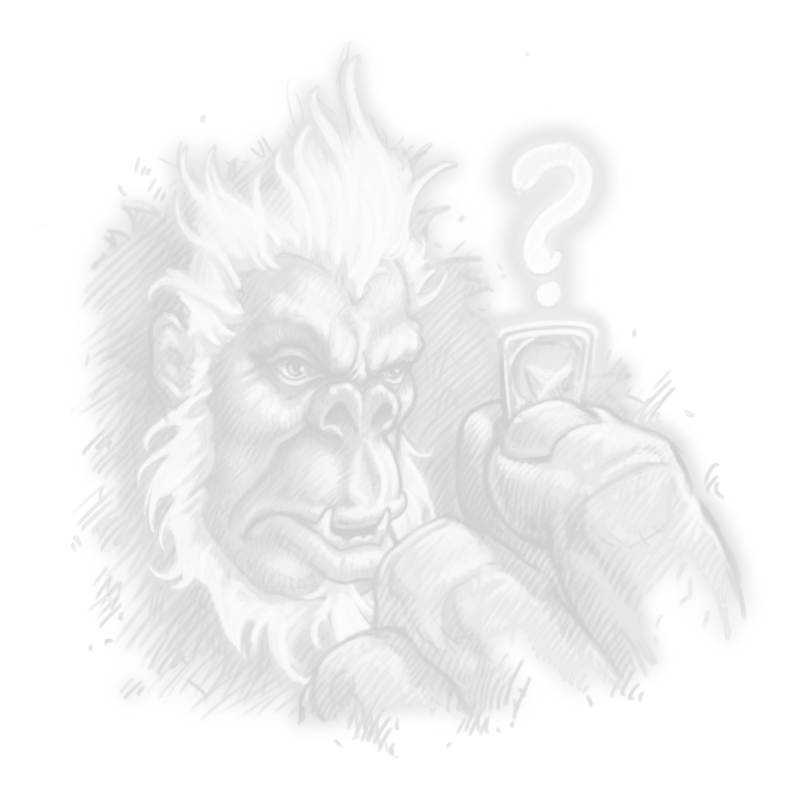
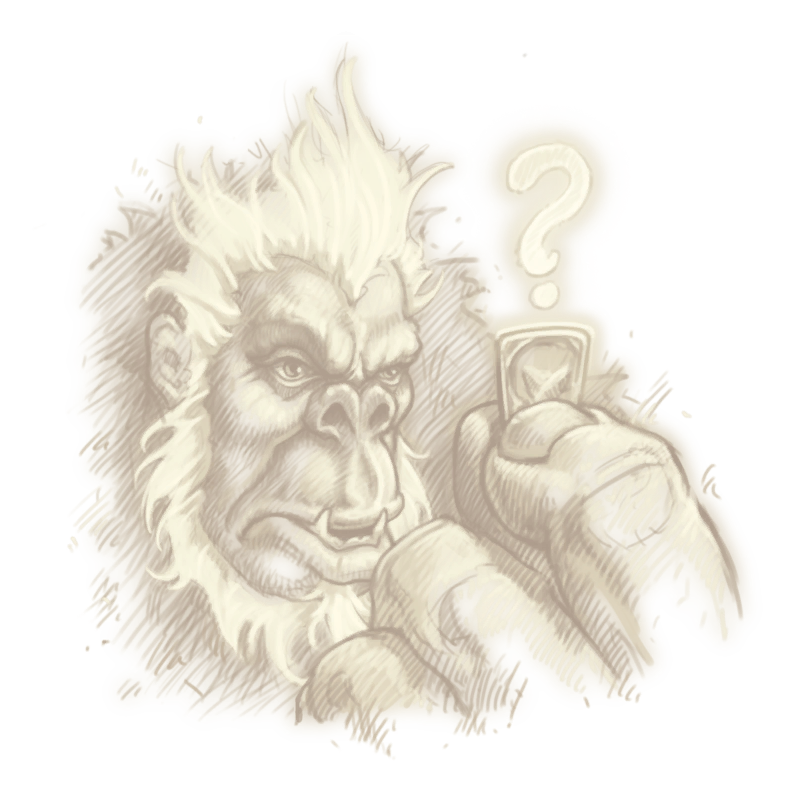
Better theme

diff --git a/styles/main.css b/styles/main.css
@@ -1,7 +1,7 @@
 html,
 body {
     color: #111111;
-    background-color: #313231;
+    background-color: #c1ac7f;
     font-family: 'Roboto', sans-serif;
     height: 100%;
 }
@@ -33,7 +33,7 @@ body {
 .footer {
     color: #ffffff;
     padding: 25px 0;
-    opacity: 0.1;
+    opacity: 0.35;
 }
 
 .navigation {
@@ -45,16 +45,38 @@ body {
     letter-spacing: 1px;
 }
 
-.btn, .selectize-input, .selectize-dropdown {
+.btn, .selectize-input {
     display: block;
     width: 100%;
+    color: #4f3e1f;
+    background-color: #fcfdeb;
+    border-top: solid 4px #fffdbe;
+    border-bottom: solid 4px #efc770;
+    border-left: solid 4px #886231;
+    border-right: solid 4px #b39756;
+    box-shadow: inset 0 0 0 2px #efe488, 0 0 0 3px #241d1b, 0 0 0 5px #6a6762, 1px 2px 5px #9a8966;
+}
+
+.selectize-dropdown-content {
+    display: block;
+    width: 100%;
+    color: #4f3e1f;
+    background-color: #fcfdeb;
+    border-top: solid 4px #fffdbe;
+    border-bottom: solid 4px #efc770;
+    border-left: solid 4px #886231;
+    border-right: solid 4px #b39756;
+    box-shadow: inset 0 0 0 2px #efe488, 1px 2px 5px #9a8966;
+}
+
+.sweet-alert {
     color: #ffffff;
     background-color: #231d17;
     border-top: solid 4px #e1d285;
     border-bottom: solid 4px #593f1b;
     border-left: solid 4px #6d4e2a;
     border-right: solid 4px #a58b4b;
-    box-shadow: inset 0 0 0 2px #7a7162;
+    box-shadow: inset 0 0 0 2px #7a7162, 5px 10px 20px rgba(0, 0, 0, 0.35);
 }
 
 .selectize-input,
